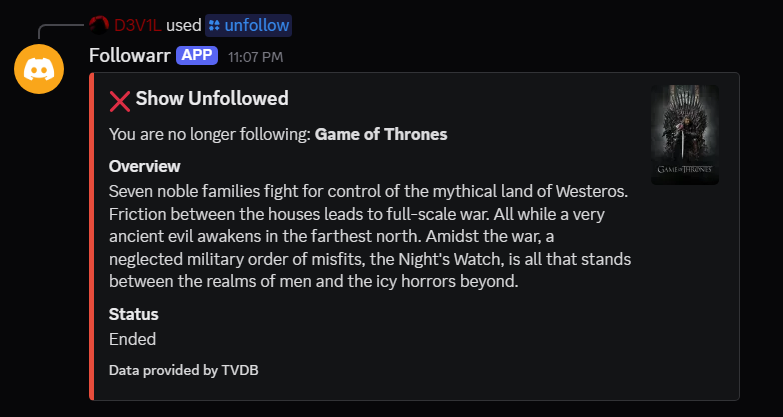
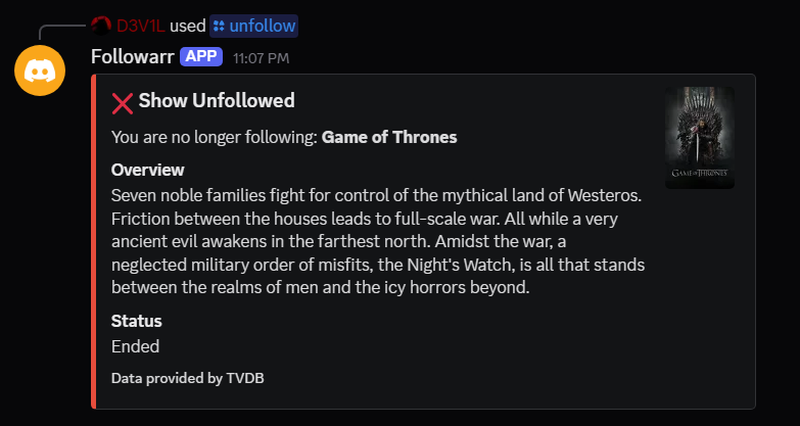
Clean up repository: Remove installation scripts, resize_screenshots.py, and reorganize screenshots

diff --git a/README.md b/README.md
@@ -287,27 +287,27 @@ The bot requires several environment variables to be set in the `.env` file:
 Here are some screenshots of the bot in action:
 
 ### Calendar Command
-<img src="docs/screenshots/resized/calendar.png" alt="Calendar Command" width="300"/>
+<img src="docs/screenshots/calendar.png" alt="Calendar Command" width="300"/>
 
 _View upcoming episodes for your followed shows_
 
 ### Follow Command
-<img src="docs/screenshots/resized/follow.png" alt="Follow Command" width="450"/>
+<img src="docs/screenshots/follow.png" alt="Follow Command" width="450"/>
 
 _Follow a new TV show_
 
 ### Unfollow Command
-<img src="docs/screenshots/resized/unfollow.png" alt="Unfollow Command" width="450"/>
+<img src="docs/screenshots/unfollow.png" alt="Unfollow Command" width="450"/>
 
 _Unfollow a TV show_
 
 ### List Command
-<img src="docs/screenshots/resized/list.png" alt="List Command" width="300"/>
+<img src="docs/screenshots/list.png" alt="List Command" width="300"/>
 
 _View all your followed shows_
 
 ### Episode Notification
-<img src="docs/screenshots/resized/notification.png" alt="Episode Notification" width="450"/>
+<img src="docs/screenshots/notification.png" alt="Episode Notification" width="450"/>
 
 _Receive notifications for new episodes_
 
